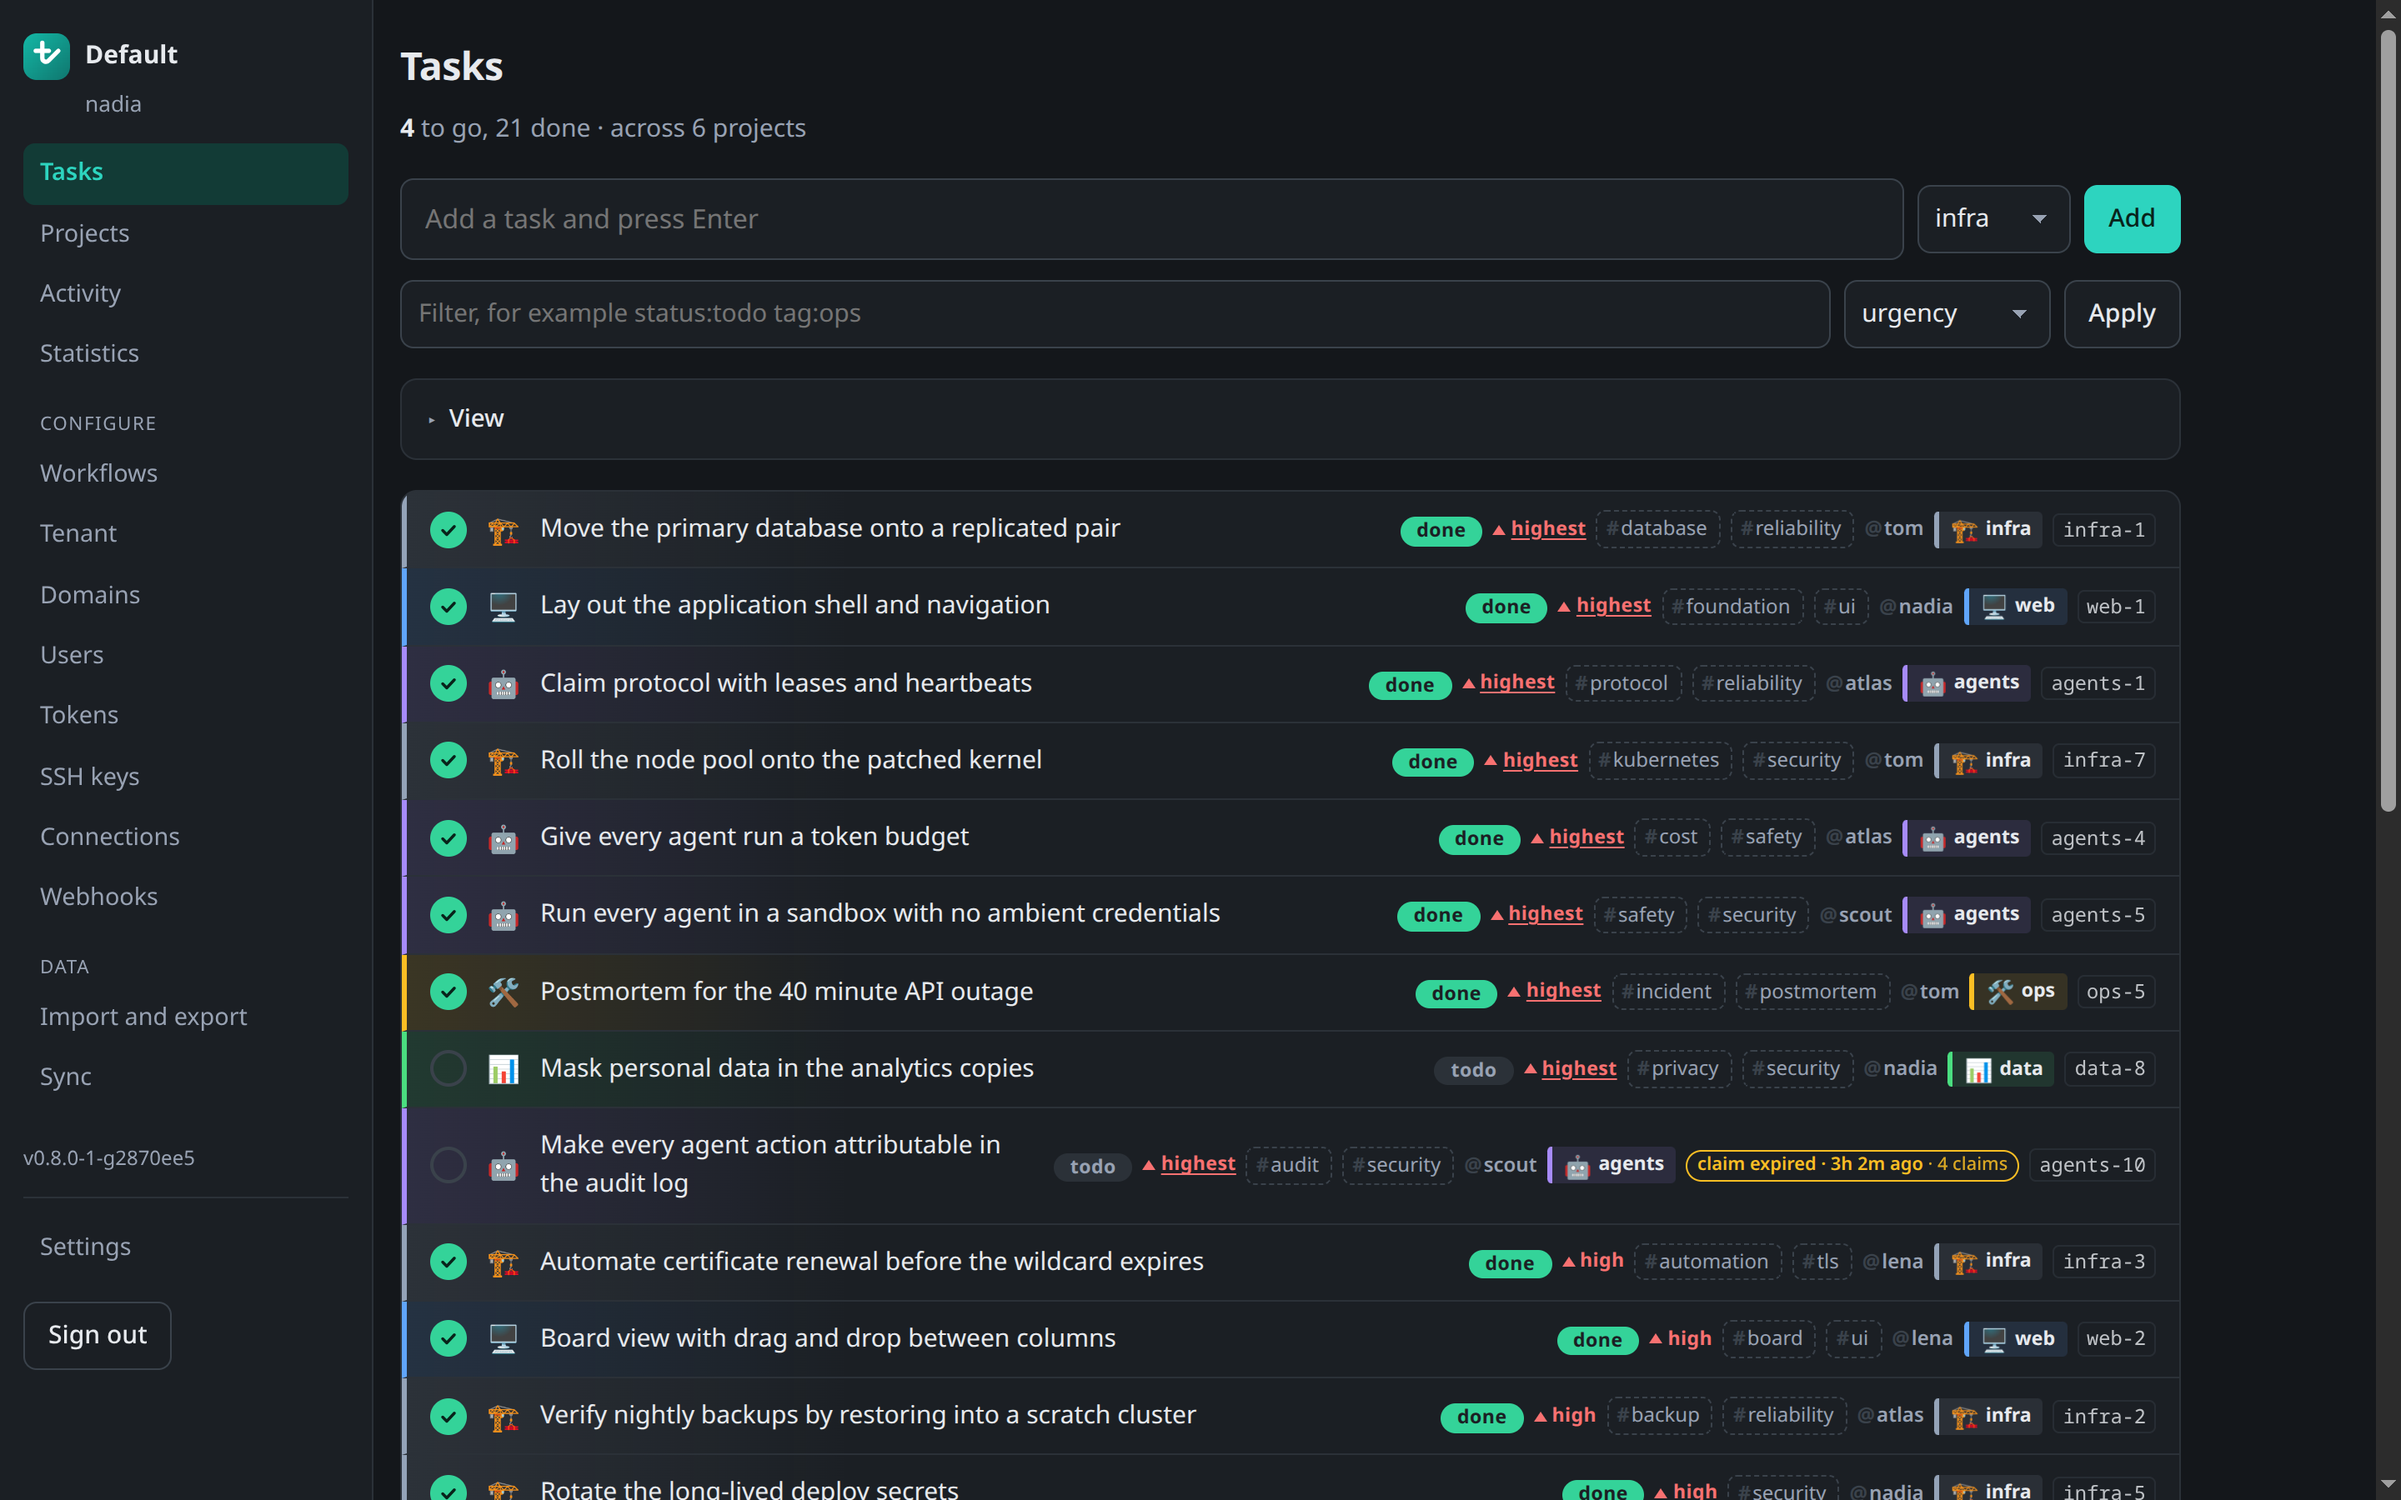
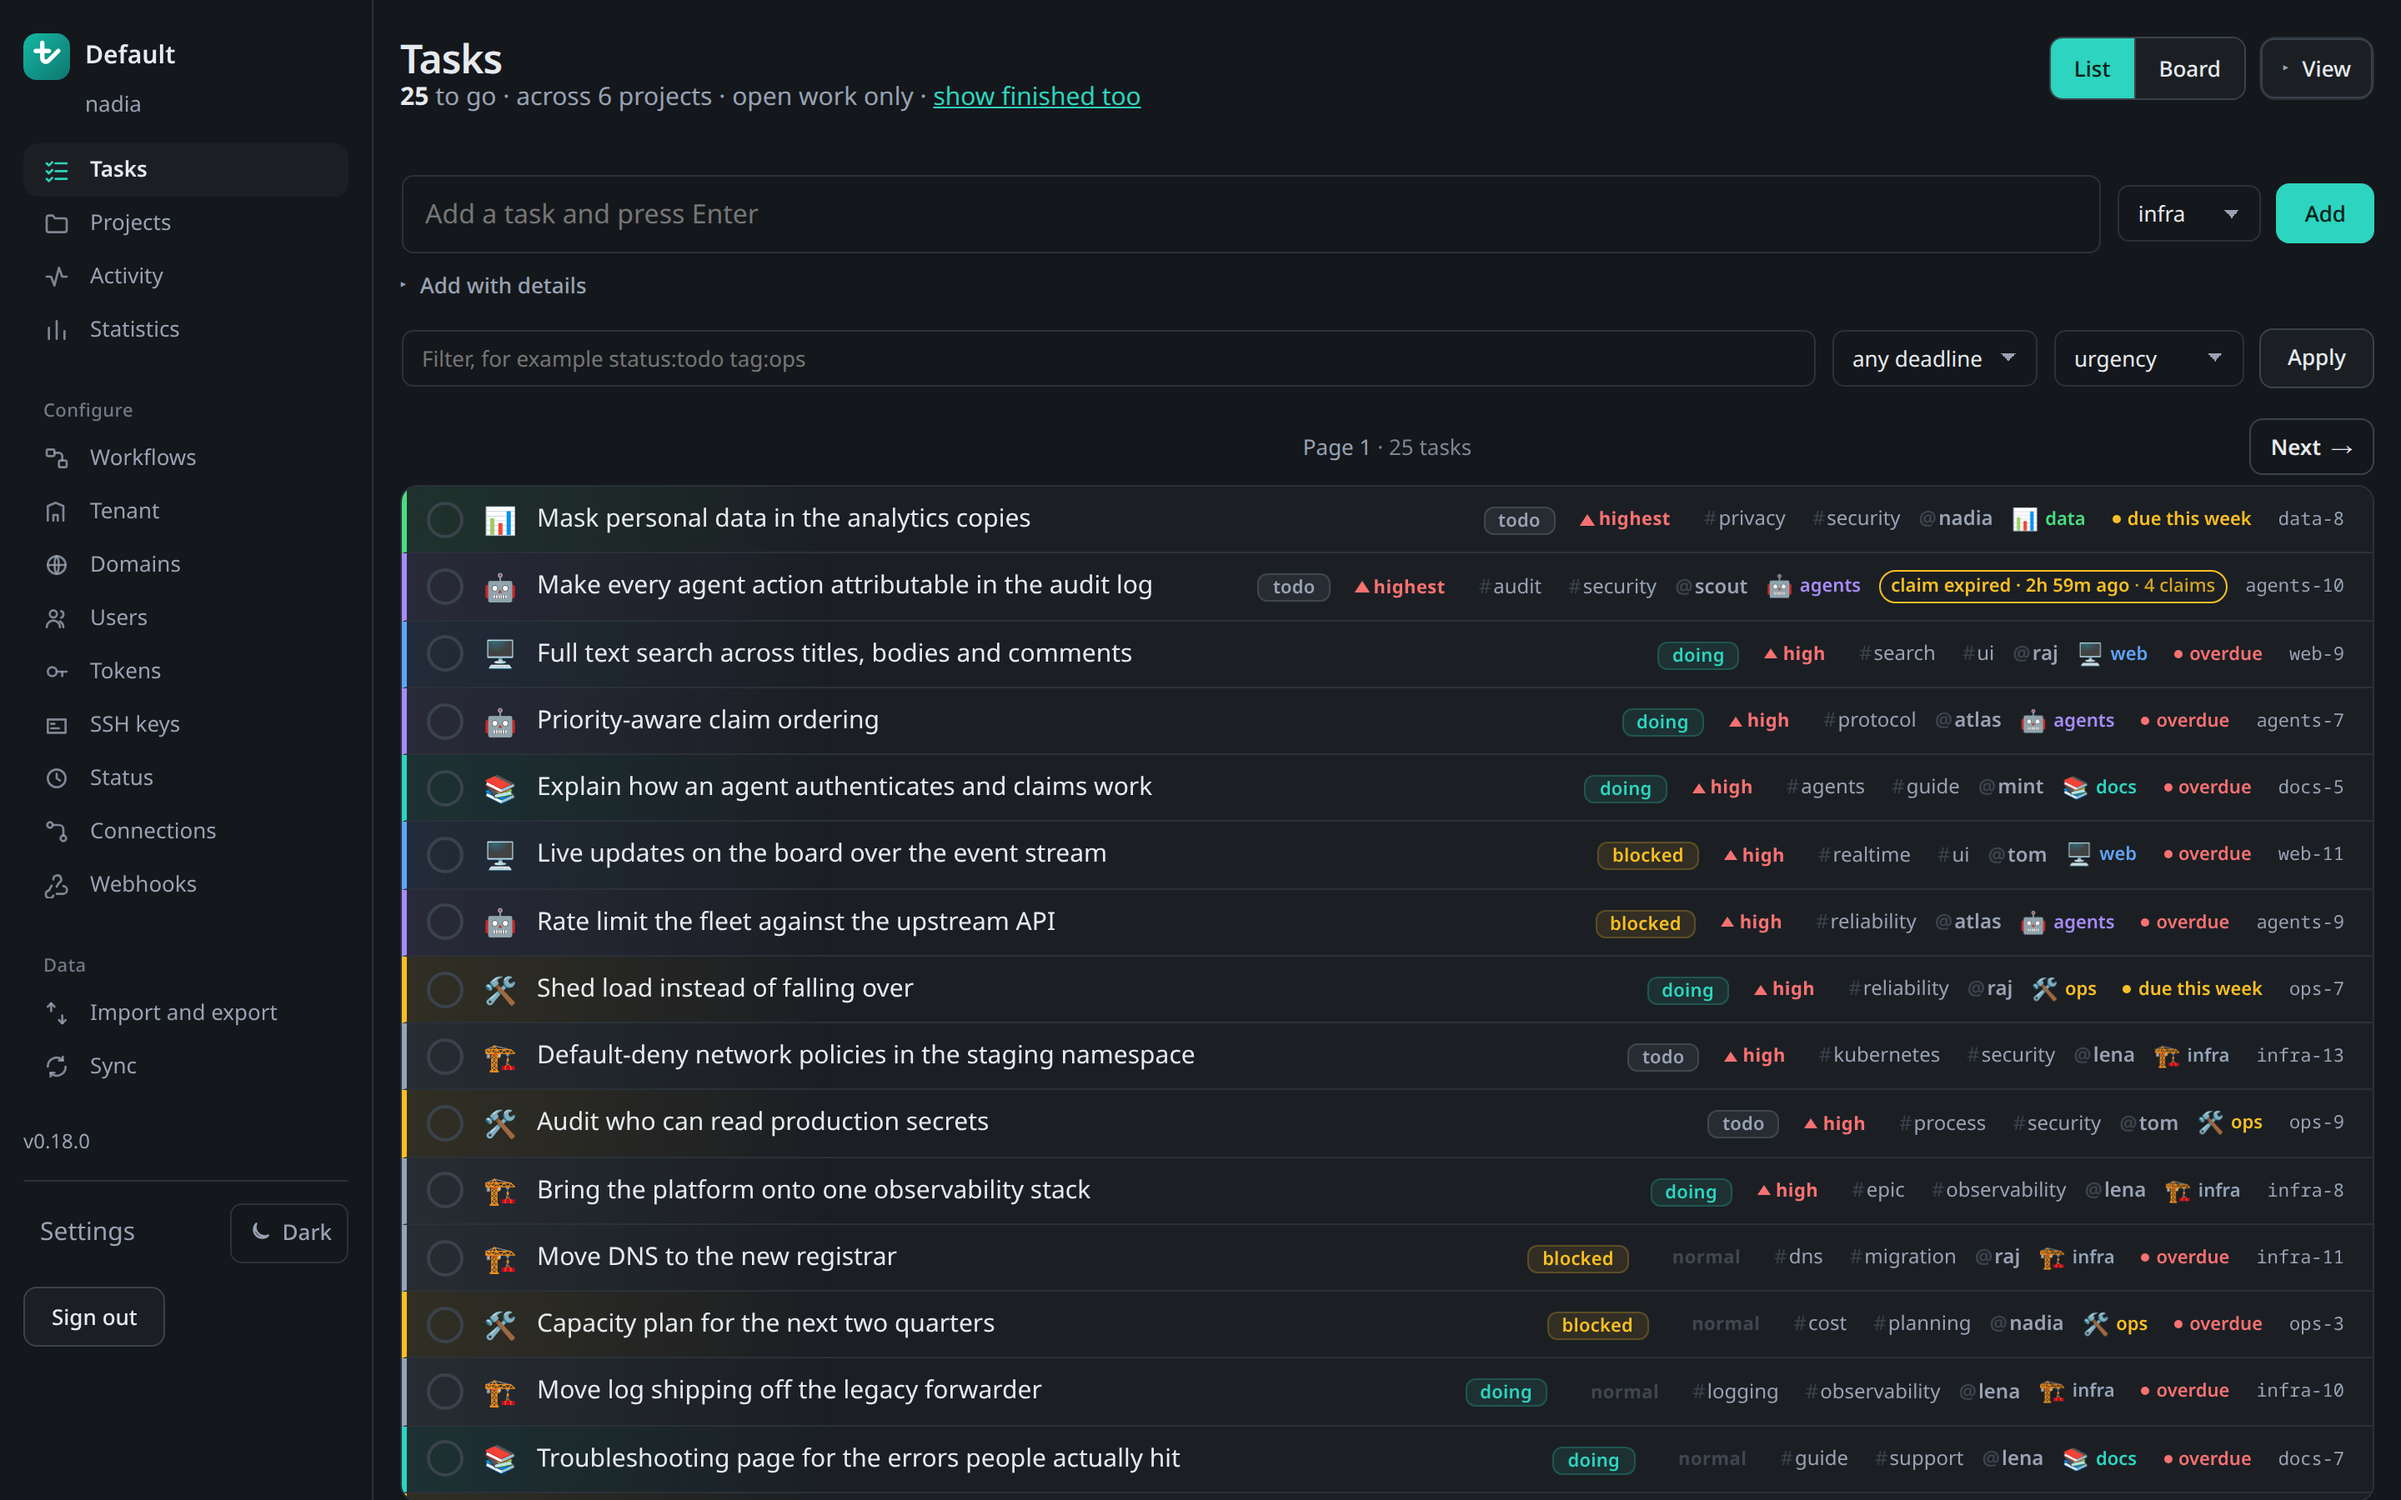
fix(demo): open the folded new-project form before submitting
The interface rebuild put the new-project form behind a disclosure, so the
planning beat clicked a submit button that was not in the layout and timed out
after 30s. Open the summary first.

Also retakes the five browser screenshots against the rebuilt interface, same
1440x900 at 2x the existing captures use.

diff --git a/screenshots/README.md b/screenshots/README.md
@@ -2,6 +2,10 @@
 
 Captured against a seeded demo database on the commit that added them.
 
+The five browser images were retaken at v0.18.0, which rebuilt the interface.
+The three terminal images predate that and are unaffected by it: the CLI and
+the TUI did not change.
+
 | File | Surface |
 | --- | --- |
 | [cli-task-list.png](cli-task-list.png) | `tix task ls` |
